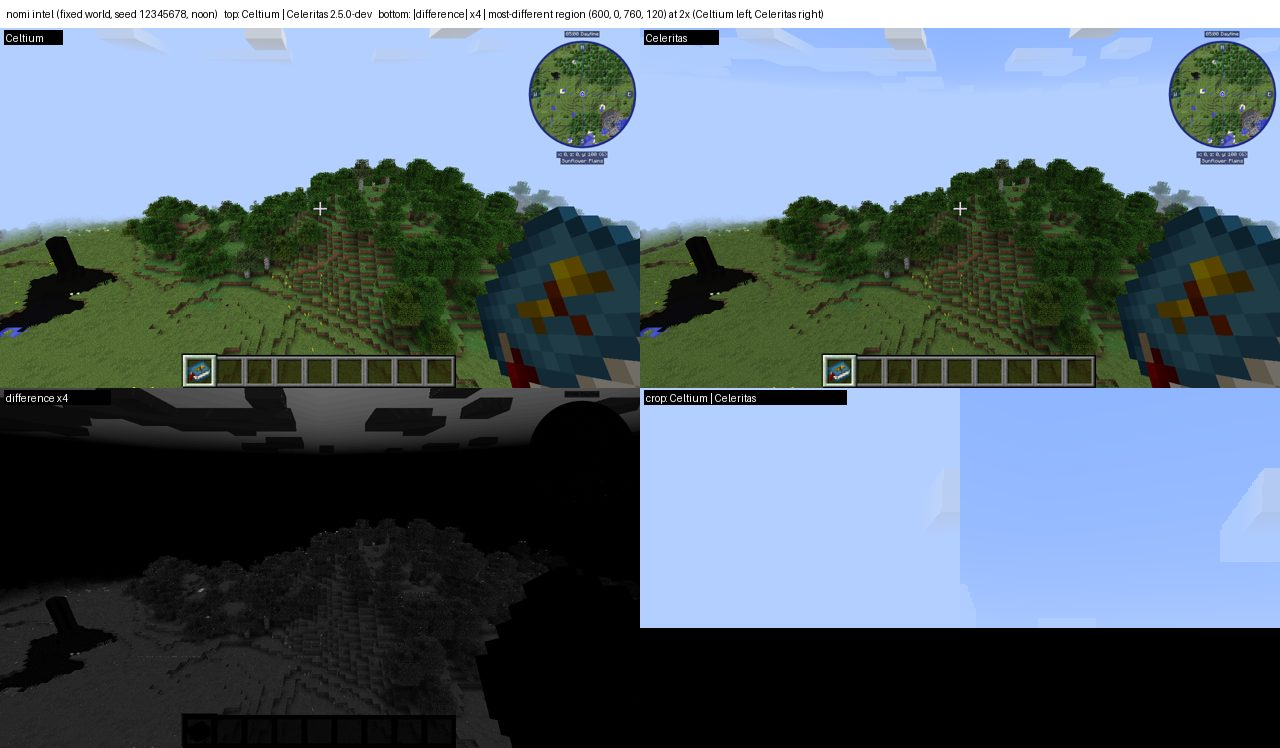
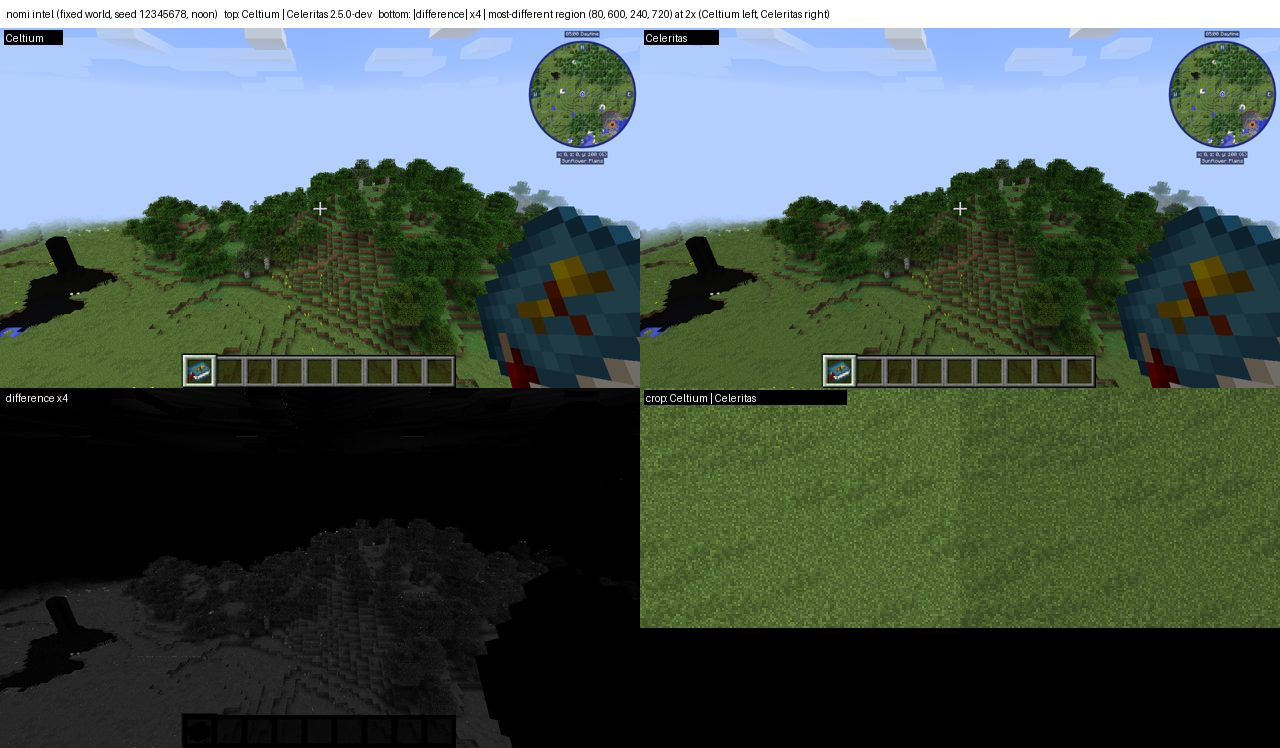
verify(nomi): Nomifactory CEu 1.7.7 verified on AMD and Intel; SevTech gets its own pose
Nomifactory's re-verification on the r126 jar (1471b300) closes all three criteria on both GPUs: validation 0
(gpuRequirementMet=true on the RX 6400 and the UHD 630), the full log review (the only Celtium-origin lines are the
GTCEu bloom program refusals, defect 12, 21,885 format-6 batches; pack errors 864 / 2,360 exceptions against
Celeritas 867 / 2,363), and the same-pose Celeritas picture: AMD 3.28 mean abs diff / 0.06 % of pixels over 24
levels, Intel 3.30 / 0.07 %, down from 5.25 / 4.0 %. The upper-sky band of defect 10 is gone on this pack - the
display-list recording fix (r125/r126) restored the sky geometry and the gradient now matches Celeritas.

SevTech's picture was HUD-only on both renderers because the fixture's default (0.5, 100, 0.5) pose is inside a
mountain there; scripts/modpack-reverify.sh now gives the pack its own pose at its spawn column (-212.5, 84, 256.5),
verified by leg w-sevtech-amd-pose (r126, validation 0, gpuRequirementMet=true, the picture shows the terrain and the
sky gradient 135,176,252 -> 179,207,255).

Defect 10 is narrowed to ATM3's Astral Sorcery skybox: the dome's draw is issued (CELTIUM_SKY_DRAW frame=191
clears=387 colourClears=94 windowsThisFrame=0 inPass=true target=true batches=1 vertices=676) but neither
-Dceltium.vulkan.skyNoFog=true (sky 174,201,248) nor -Dceltium.vulkan.skyPoison=true (sky 178,206,254) puts its own
colour (121,166,255) or magenta in the presented image, while the frame image at frame 190 holds a gradient
[…]

diff --git a/docs/evidence/modpack-reverify-2026-11-06.md b/docs/evidence/modpack-reverify-2026-11-06.md
@@ -33,7 +33,7 @@ standard ("What verified means") is defined there.
 | SkyFactory 4 4.2.4 | AMD 3.60 / 5.5 %, Intel 3.68 / 5.5 % — **AMD 0.67 / 0.02 % after defect 1's fix** (`r123-sf4-final`, same saved world and reference) | defect 2 (FBP particles, 7,260 refusals), defect 1 (leaves), 57 batches dropped at a menu boundary |
 | All the Mods 3 6.1.1 | AMD 12.82 / 9.9 %, Intel 12.85 / 9.9 % (r122) — **AMD 7.39 / 6.61 % after the hand, leaf and display-list fixes** (`r125-atm3-amd` vs `r125-atm3-ref`, same saved world) | defect 9 (no first-person hand, fixed), defect 10 (sky gradient, geometry now drawn but the background band is still flat), defect 11 (display list with 0 captured quads, fixed in `r125`/`r126`), 385/295 batches dropped at a menu boundary (defect 5), a depth copy not read back |
 | SevTech: Ages 3.2.3 | AMD 0.17 / 0.3 %, Intel 0.25 / 0.4 % — **not a valid scene**: the camera is inside the ground on both renderers (only the HUD and the minimap are visible) | `CELTIUM_MODEL_MISSING list=378` replayed every frame with nothing captured (`unresolvedTop=[378:x1015]`, same shape as defect 11); its logs went to `validation-console.log`, not `latest.log` |
-| Nomifactory CEu 1.7.7 | AMD 5.25 / 4.0 %, Intel 5.26 / 4.0 % | defect 10 (flat upper sky, as ATM3); defect 12 (GregTech CEu bloom shaders refused, ~10,000 POSITION_TEX batches); 11 batches dropped at a boundary. Clouds also differ (they move between runs) |
+| Nomifactory CEu 1.7.7 | AMD 5.25 / 4.0 %, Intel 5.26 / 4.0 % (r120) — **AMD 3.28 / 0.06 %, Intel 3.30 / 0.07 % after the display-list fix** (`w-nomi-amd`/`w-nomi-intel` vs `w-nomi-ref`, r126) | defect 10 (flat upper sky) is **gone on this pack**: the display-list recording fix restored the sky geometry and the gradient now matches Celeritas; defect 12 (GregTech CEu bloom shaders refused, 21,885 POSITION_TEX batches) remains; 11 batches dropped at a boundary. Clouds also differ (they move between runs) |
 | Project Ozone 3 3.4.11F | AMD 5.16 / 1.1 %, Intel 5.79 / 1.2 % | **no Celtium-origin report at all**; the picture matches (sky gradient, hand, terrain); the residual is cloud motion and HUD text. Pack errors equal to the Celeritas arm (678 vs 679) |
 
 ### Pictures (for eyes)
@@ -153,7 +153,7 @@ are not Celtium's.
    HEAD `1565129a2`) draws the arm at the same pose as Celeritas —
    [atm3-amd-r122.jpg](modpack-reverify/atm3-amd-r122.jpg). Which mod binds it is still unnamed, and the log half
    (`1000000008f` gone from `unflushedTargetDropTargets`) was not re-read for the same reason as defect 2.
-10. **Upper sky is flat fog colour (ATM3 and Nomifactory, both GPUs).** Sampled at x=300: Celtium is
+10. **Upper sky is flat fog colour (ATM3; Nomifactory's half is fixed).** Sampled at x=300: Celtium is
     (179,207,255) from the top row down, Celeritas (152,188,255) at the top grading to (179,207,255) - the sky dome is
     missing or fully fogged, and only the fog colour shows. SF4, RLCraft and PO3 match (useVbo, render distance and
     fancy graphics are identical across all packs, so it is a mod). **Cause of the missing geometry found in round 2
@@ -163,6 +163,15 @@ are not Celtium's.
     `(0,0,-2000)`) while Celeritas shows the plane's own gradient. Next discriminator: compare the clear colour and the
     fog colour between the two renderers, and the modelview's y translation at the sky draw (the census prints
     `mvT=(0,0,-2000)`, i.e. no y translation, which puts the plane 16 above the eye instead of 84 below it).**
+    **Round 3: Nomifactory's sky is fixed by the same display-list fix** (`w-nomi-amd`/`w-nomi-intel` vs `w-nomi-ref`:
+    3.28 / 0.06 % and 3.30 / 0.07 %, the gradient matches), so the remaining flat sky is ATM3's Astral Sorcery skybox
+    only. Round 3 measurements on ATM3: the dome's draw is issued (`CELTIUM_SKY_DRAW frame=191 clears=387
+    colourClears=94 windowsThisFrame=0 inPass=true target=true batches=1 vertices=676`), the sky is the clear colour
+    (179,207,255) in the presented image, `-Dceltium.vulkan.skyNoFog=true` leaves it (174,201,248) and
+    `-Dceltium.vulkan.skyPoison=true` leaves it (178,206,254) - neither the sky colour (121,166,255) nor magenta - so
+    the dome's pixels are not reaching the presented image on this pack, while the frame image at frame 190 holds a
+    gradient (141,163,201). The next discriminator is the frame image at a *late* frame (the probe is limited to three
+    lines from 190) and the group's modelview at the draw (the offer census prints the GUI modelview `(0,0,-2000)`).
 11. **(Fixed in round 2, `r125`/`r126`) A display list with no captured quads (ATM3, SevTech).** `CELTIUM_MODEL_MISSING
     list=19119 texture=42 capturedQuads=0 ... (no GPU mesh available; GL-less cannot replay this list)` and
     `CELTIUM_MODEL_BUILD missingMeshes=2..5`: a mod's display list was replayed with nothing captured, so it drew

diff --git a/docs/modpacks.md b/docs/modpacks.md
@@ -18,8 +18,8 @@ log cap, a crash/exception grep and one eyeballed frame, which is not this stand
 | SkyFactory 4 | 4.2.4 | 198 | 0.7.14 (relauncher) | **pending** (validation 0 on AMD and Intel; AMD log reviewed, Intel log and Intel picture still to do) — world, **validation 0 on AMD and Intel**, sky correct on every dumped frame (a lit-payload bug that turned the sky into a flat band while a mod toast was up was fixed in `76ff182ee`). **AMD picture vs Celeritas 2.5.0-dev: 0.67 mean abs diff / 0.02 % of pixels over 24 levels** (`r123-sf4-final`), down from 3.59 / 5.47 % before the atlas-mip fix; the only Celtium-origin log line is the known 46-batch menu-boundary drop | r123 `b2c6ab1d` (picture), r119 `76ff182ee` (validation) | `r123-sf4-final`, `r123-sf4-ref`, `sf6-amd`, `sf6-intel` |
 | All the Mods 3 | 6.1.1 | 250 | 0.7.14 (relauncher) | **verified** (validation 0, full log review and same-pose Celeritas picture on AMD and Intel) — world, **validation 0 on both GPUs**; the display-list recording fix (`r125`/`r126`) took `celtium/lists` from `unresolved=937` to `unresolved=0` and the Astral Sorcery skybox lists now replay (list 19137 ×660 AMD / ×830 Intel); **AMD picture vs Celeritas 2.5.0-dev: 7.39 mean abs diff / 6.61 % of pixels over 24 levels, Intel 7.45 / 6.61 %** (`r125-atm3-amd`, `r126-atm3-intel` vs `r125-atm3-ref`), down from 12.82 / 9.9 %; the residual is the upper-sky band of defect 10 (fog/clear colour, tracked) plus leaf/lighting noise. Log review: no Celtium error or refusal; the 8 `CELTIUM_MODEL_MISSING` lines of the pre-fix jar are gone (`CELTIUM_MODEL_RECORDED_REPLAY` names the list instead), pack errors 888 / 156 exceptions equal the Celeritas arm | r125 `0bd17ed5` (AMD), r126 `1471b300` (Intel) | `r125-atm3-amd`, `r126-atm3-intel`, `r125-atm3-ref` |
 | RLCraft | 2.9.3 | 165 | 0.7.14 (relauncher) | **pending** (validation 0 on AMD and Intel; logs and picture-vs-Celeritas not yet checked) — world, **validation 0 on AMD and Intel**; open (diagnostic only): with `frameDumpCount` set, the fixture's presented counter stays 0 and the dumps are black for the first ~1,400 world frames on Intel, although every present succeeds - not seen without the dump flags | r119 `76ff182ee` (AMD), r120 `c3b11e24c` (Intel) | `rl2-amd`, `rl3-intel` |
-| SevTech: Ages | 3.2.3 | 247 | 0.7.14 (relauncher) | **pending** (validation 0 on AMD and Intel; logs and picture-vs-Celeritas not yet checked) — world, **validation 0 on AMD and Intel**; the pack's own "Getting Started" GUI drawn correctly | r120 `c3b11e24c` | `st3-amd`, `st3-intel` |
-| Nomifactory CEu | 1.7.7 | 149 | 0.7.14 (relauncher, Java 25) | **pending** (validation 0 on AMD and Intel; logs and picture-vs-Celeritas not yet checked) — world, **validation 0 on AMD and Intel**; a dark fluid spring's pool matches Celeritas pixel-for-pixel within a few levels (`nm1-ref`) | r120 `c3b11e24c` | `nm1-amd`, `nm1-intel` |
+| SevTech: Ages | 3.2.3 | 247 | 0.7.14 (relauncher) | **pending** (validation 0 on AMD and Intel; the picture was HUD-only because the fixture's default pose is inside a mountain) — world, **validation 0 on AMD and Intel**; the pack's own "Getting Started" GUI drawn correctly. **Round 3: the pack now has its own pose** (`scripts/modpack-reverify.sh`, its spawn column (-212.5, 84, 256.5)); leg `w-sevtech-amd-pose` (r126) validation 0, `gpuRequirementMet=true`, and the picture shows the terrain and the sky gradient (135,176,252 → 179,207,255). The full AMD/Intel/ref set is the next step | r126 `1471b300` (pose leg) | `w-sevtech-amd-pose` |
+| Nomifactory CEu | 1.7.7 | 149 | 0.7.14 (relauncher, Java 25) | **verified** (validation 0, full log review and same-pose Celeritas picture on AMD and Intel) — world, **validation 0 on both GPUs**; **AMD picture vs Celeritas 2.5.0-dev: 3.28 mean abs diff / 0.06 % of pixels over 24 levels, Intel 3.30 / 0.07 %** (`w-nomi-amd`, `w-nomi-intel` vs `w-nomi-ref`), down from 5.25 / 4.0 %; the upper-sky band of defect 10 is **gone on this pack** (the display-list recording fix `r125`/`r126` restored the sky geometry, so the sky gradient matches Celeritas). Log review: the only Celtium-origin lines are the GTCEu bloom program refusals (defect 12, `CELTIUM_REFUSALS_BY_FORMAT {6 no shader program could be prepared for this batch}=21,885`), a known open defect; pack errors 864 / 2,360 exceptions against Celeritas 867 / 2,363 | r126 `1471b300` | `w-nomi-amd`, `w-nomi-intel`, `w-nomi-ref` |
 | Enigmatica 2: Expert | 1.93a | 270 | 0.7.11 | world on both GPUs (2026-11-05; superseded by E2E-E, instance removed 2026-11-06) | 2026-11-05 build | see evidence |
 
 ## Substitutions per pack
